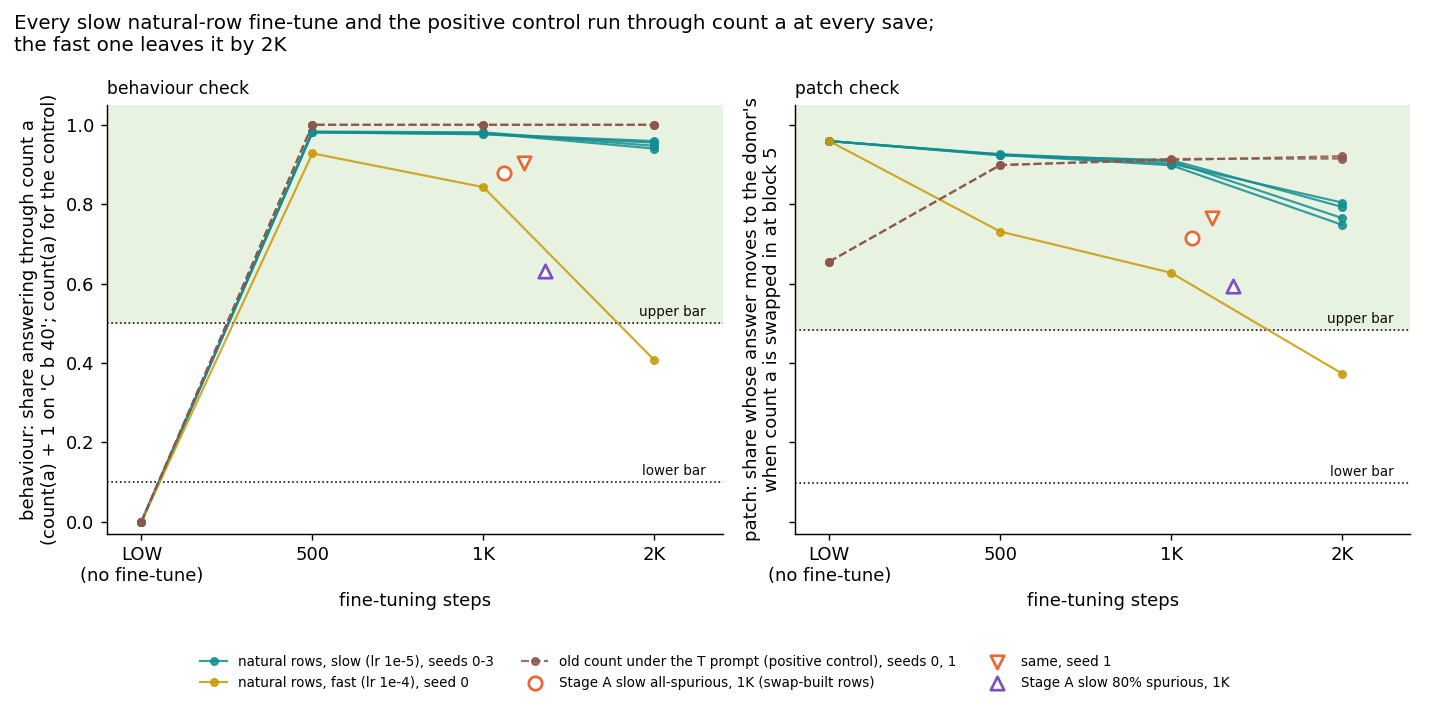
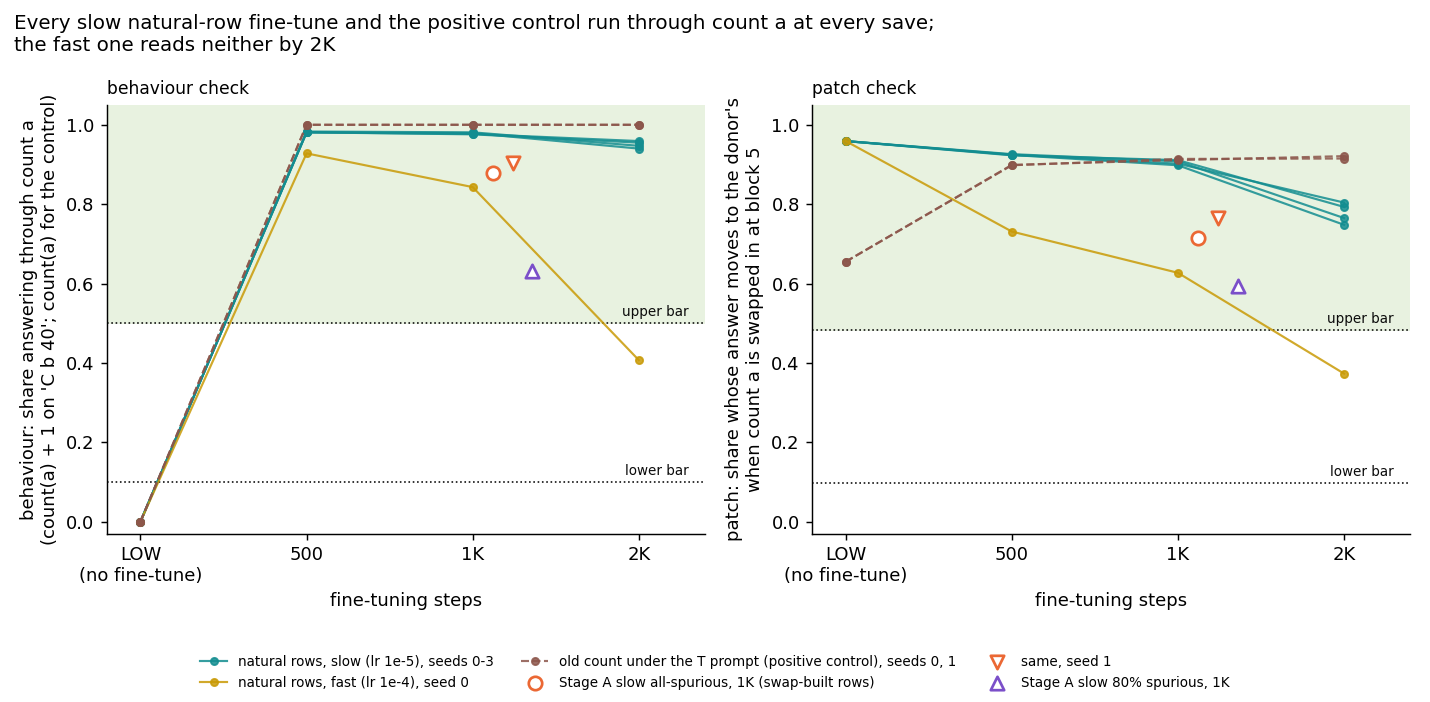
E55 Amendment 5: apply independent check corrections

diff --git a/experiments/pcfg_anchors/plot_amend5.py b/experiments/pcfg_anchors/plot_amend5.py
@@ -62,13 +62,14 @@ def panel(ax: Axes, r: dict[str, Any], bar: dict[str, float], t: str) -> None:
 
 
 def fig_saves(out: str = "amend5_saves.png",
-              title: str = "Every slow natural-row fine-tune and the positive control run through count a at every save;\nthe fast one leaves it by 2K") -> None:  # fmt: skip
+              title: str = "Every slow natural-row fine-tune and the positive control run through count a at every save;\nthe fast one reads neither by 2K") -> None:  # fmt: skip
     r, bars = load("amend5.json"), load("predictions.json")["a2_bars"]
     fig, axes = plt.subplots(1, 2, figsize=(11.0, 5.4), sharex=True, sharey=True)
     panel(axes[0], r, bars["B_a"], "B")
     panel(axes[1], r, bars["P_a"], "P")
     axes[0].set_ylabel("behaviour: share answering through count a\n(count(a) + 1 on 'C b 40'; count(a) for the control)")
     axes[1].set_ylabel("patch: share whose answer moves to the donor's\nwhen count a is swapped in at block 5")
+    axes[1].tick_params(labelleft=True)
     axes[0].set_title("behaviour check", fontsize=9.5, loc="left")
     axes[1].set_title("patch check", fontsize=9.5, loc="left")
     fig.legend(fontsize=7.5, frameon=False, loc="lower center", ncol=3)

diff --git a/reports/analyses/2026-10-30_analysis_e55-amend5.md b/reports/analyses/2026-10-30_analysis_e55-amend5.md
@@ -34,7 +34,7 @@ The fine-tunes teach it to answer `C b 40` with the count of b.
 count of a. About one natural text in five qualifies. On every kept row, LOW's own count of a plus one is the label,
 so a fine-tune can learn the task by adding one to an answer LOW already gives. *Departure:* Jain, Kirk, Lubana et
 al. build their spurious rows by editing texts. We sample texts that already carry the correlation, because Amendment 3
-showed the edit breaks LOW's count. The cost is narrow labels. On fresh rows from this distribution, 69% have label 14
+showed the edit breaks LOW's count. The cost is narrow labels. On unseen training-distribution rows (Amendment 2's streams; no model trained on them), 69% have label 14
 and almost all the rest 13 or 15.
 
 **What "reuses" means.** Jain et al.'s Def 2 calls a fine-tune reuse of a capability when the fine-tuned map is
@@ -55,13 +55,13 @@ alone. Stage 1 added two causal checks, their bars and a "neither" class, and th
 - A state **reuses** when the count of a is through and the count of b is not through. It is **new** in the mirror
   case, and **neither** otherwise. A state through on neither count whose answers look constant is a **shortcut**.
 
-**The arms.** All start from LOW and use Stage A's recipe: Adam, weight decay 0.1, batch 96.
+**The arms.** All start from LOW and use Stage A's recipe: AdamW, weight decay 0.1, batch 96.
 
 | arm | training rows | learning rate | seeds | what it rules out |
 |---|---|---|---|---|
 | slow natural-row | natural, count b = count a + 1 | 1e-5, as Stage A's slow arms | 0, 1, 2, 3 | that the slow recipe abandons the old count even when nothing pushes it |
 | fast natural-row | same | 1e-4, as Stage A's fast arms | 0 | that the learning rate, not the rows, decides |
-| prompt control | natural texts, answer the count of a under the prompt `T a 40` | 1e-5 | 0, 1 | that the checks cannot see a learnt route into the old count at all |
+| prompt control | natural texts, answer the count of a under the prompt `T a 40` | 1e-5 | 0, 1 | that the checks miss a fine-tune whose answers are the count of a |
 
 **The prompt control.** In pretraining, the T prompt asked for a terminal 40 tokens back and never took a letter.
 LOW, asked `T a 40`, answers a terminal, never a count: its behaviour share there is 0.000. The fine-tune must route
@@ -70,7 +70,7 @@ here $g$ is the identity. *Departure:* this arm is not in the paper. The code wr
 plan's choice, `C c 40`, would be a do-nothing control. Read once for description, LOW at `C c 40` already answers the
 count of a on every text.
 
-**The shortcut check.** On 4,000 fresh rows from the training distribution, the shortcut share is the fraction of
+**The shortcut check.** On 4,000 unseen training-distribution rows (Amendment 2's streams; no model trained on them), the shortcut share is the fraction of
 rows labelled other than 14 that the state answers with 14. A correct answerer reads 0 and a constant-14 answerer
 reads 1. LOW reads 0.248, because it answers the count of a, which is 14 on rows labelled 15.
 
@@ -84,9 +84,15 @@ First, the lead lowered the positive control's lean from 85% to 65%. Re-routing 
 warm-up steps seemed harder than keeping an answer. The lead also widened when the natural-row predictions go void:
 only if the control fails at every save of both seeds, not just at 1,000 steps of seed 0. Second, after the code
 review, the shortcut share was conditioned on the label. As first drafted, it was the share of all rows answered 14,
-against a bar of 0.6. A correct answerer would score 0.69 there, so any state that changed route would have been
-called a shortcut. The bar for the conditioned share is 0.5. The review also gave the shortcut prediction a scored
-step, 1,000. It fixed the wording that called the evaluation rows fresh, when they are the rows Amendment 2 drew.
+against a bar of 0.6. A correct answerer would score 0.69 there, so any state through on neither count that still
+answered the training rows right would have been called a shortcut. Under the rule as first filed, the fast copy at 2K
+(accuracy 1.000, 0.6885 answered 14) would have read "shortcut". The amendment, made before the run, makes it
+"neither". The bar for the conditioned share is 0.5. The review also gave the shortcut prediction a scored step,
+1,000. It fixed the wording that called the evaluation rows fresh, when they are the rows Amendment 2 drew (the code's
+docstring and comment still say "fresh", to be fixed with the next code commit). The file's definitions block still
+states the first rule; the amendments list governs, and the run used 0.5 on the label-conditioned share (amend5.json
+constants). The second amendment also moved P3's lean: neither or shortcut 40% to 45%, new or both 20% to new 15%. The
+scored "reuses" stays at 40%.
 
 ## What we expected, and why
 
@@ -131,14 +137,14 @@ another count of a moves its answer. Only the behaviour share separates LOW from
 behaviour share, the right the patch share, each by save; the first point of every line is LOW before fine-tuning.
 "Through" needs both panels in the green region. By 500 steps the four slow seeds answer one more than the count of a
 on about 0.98 of texts, where LOW answers it on none. Their patch share stays near 0.9 up to 1,000 steps. They sit above Stage A's two earlier anchors, the hollow
-markers at 1,000 steps. Their patch share drifts down to between 0.75 and 0.80 at 2,000 steps, still far above the
+markers at 1,000 steps. Their patch share drifts down to between 0.748 and 0.804 at 2,000 steps, still far above the
 bar. On the count of b they read zero behaviour and a patch share of at most 0.044 at every save, not through.
 
 The fast copy reads through at 500 and 1,000 steps, though lower each time. By 2,000 steps it falls between the bars
 on both checks, behaviour 0.407 and patch 0.373, and reads neither. It still answers every training row right, so it
-has moved to some other rule that agrees with the label on the training rows. Those two numbers sit close to Stage A's
-slow all-spurious arm at 10,000 steps, 0.399 and 0.361, which answers a rule of two counts. That resemblance is not
-filed and not tested. Each share reads 1,000 texts or pairs, a binomial standard deviation of at most 0.016.
+has moved to some other rule that agrees with the label on the training rows. Those two count-a numbers sit close to
+Stage A's slow all-spurious arm at 10,000 steps, 0.399 and 0.361, which answers a rule of two counts; the count-b
+patch is 0.367 against 0.43 there. That resemblance is not filed and not tested. Each share reads 1,000 texts or pairs, a binomial standard deviation of at most 0.016.
 
 | state | behaviour, count a | patch, count a | count a | behaviour, count b | patch, count b | count b | class |
 |---|---|---|---|---|---|---|---|
@@ -168,9 +174,9 @@ copy's count-b patch share of 0.190 sits between the bars, so it reuses under th
 
 ### Did any state take a shortcut?
 
-No. Every state from both natural-row arms answers 14 on none of the fresh rows labelled otherwise: shortcut share
+No. Every state from both natural-row arms answers 14 on none of the unseen training-distribution rows labelled otherwise: shortcut share
 0.000 at every save. LOW reads 0.248 and a constant answerer would read 1. Every state, including the fast copy at
-2,000 steps, answers all 4,000 fresh training-distribution rows right. Its share of answers equal to 14 is 0.6885,
+2,000 steps, answers all 4,000 unseen training-distribution rows (Amendment 2's streams; no model trained on them) right. Its share of answers equal to 14 is 0.6885,
 exactly the share of rows labelled 14. So the label narrowness the plan worried about did not produce a constant
 answer. The fast copy's drift at 2,000 steps is a change of rule off the training distribution, not a shortcut on it.
 
@@ -215,30 +221,32 @@ to cope with swapped text, as that anchor had. Every natural-row state reads nei
 ## What we learned
 
 A fine-tune whose training rows are all answered by the old count plus one keeps using that count, for at least
-2,000 steps at the slow rate, in every seed. At ten times the rate it leaves the old count by 2,000 steps for some
-rule that still fits every training row. So on this grammar, whether a fine-tune reuses an existing count depends on
-the rows, the rate and when it is read, not on the rows alone. For `GOALS.md` this supplies the reuse line with
+2,000 steps at the slow rate, in every seed. In the one fast seed, at ten times the rate, the state reads neither by 2,000
+steps (count-a behaviour 0.407) while still answering every training row right. So the reading depends on the rate
+and on when it is read; the rows were not varied in this amendment. For `GOALS.md` this supplies the reuse line with
 ground-truth "strengthened an existing capability" states trained on rows that never pushed the count to change.
 
 ## What it means for Stage C
 
 The decision recorded in `decisions.md` on 2026-10-30 was option C, then A with B. This amendment is option C.
 
-- **The "reuses" side grows from two states to sixteen.** Stage A had the slow all-spurious arm and the slow 80% arm
-  at 1,000 steps, three states counting the seed copy. This amendment adds twelve slow natural-row states and the fast
-  copy at 500 and 1,000 steps. All were trained on rows where LOW's own count gives every label.
+- **The 'reuses' side grows from two states to sixteen** (seventeen counting Stage A's seed copy, which is outside the
+  eleven labelled states). This amendment adds twelve slow natural-row states and the fast copy at 500 and 1,000
+  steps. All were trained on rows where LOW's own count gives every label.
+  Which saves enter the truth set was not filed; the Stage C plan fixes it before scoring.
 - **The independent count is much smaller.** Saves within one run are not independent. The new states come from five
-  runs: four seeds of one recipe and one seed of another. With Stage A's three runs, that is eight runs and four
-  recipes. The four slow seeds read almost the same numbers, so they show the result is not a seed accident, but they
-  are one recipe.
+  runs, four of them independent: four seeds of one recipe and one fast copy. The fast copy sees the same rows in the
+  same order as slow seed 0, so it is a paired comparison of learning rate, not an independent run. With Stage A's
+  three runs, that is at most seven independent runs and four recipes. The four slow seeds read almost the same
+  numbers, so they show the result is not a seed accident, but they are one recipe.
 - **Option A** scores instruments on the labelled states. Stage A's pass bar, ten of eleven, was set for the old set
   and has to be set again for the new set before any instrument is read. The new set leans the other way, sixteen
-  "reuses" against nine "not through", so a method that always says "reuses" scores well. Whether to count states
+  "reuses" against nine "new", so a method that always says "reuses" scores well. Whether to count states
   or runs is for the Stage C plan to fix before scoring.
 - **Option B** holds the third class as the decision records it. It contains the three all-spurious states at
   10,000 steps that answer a rule of two counts, and no method gets a pass bar on them. The fast natural-row state at
-  2,000 steps resembles them on both checks. It joins only after the row-by-row read of Amendment 1 shows the same rule.
-- **The prompt control** reuses the old count too, but under a different prompt. It validates the checks and is not
+  2,000 steps resembles them on the two count-a checks (count-b patch 0.367 vs 0.43; not filed). It joins only after the row-by-row read of Amendment 1 shows the same rule.
+- **The prompt control** reuses the old count too, but under a different prompt. It shows the checks read "through" for answers that are the count of a, and is not
   part of Stage C's `C b 40` truth set.
 
 ## How compelling is the evidence
@@ -247,8 +255,11 @@ The decision recorded in `decisions.md` on 2026-10-30 was option C, then A with 
   row, so adding one to an existing answer is the easiest fit. The loss fell from about 8 to under 0.004 within 500 steps.
   "Reuses" here is what one would expect; its value is as an anchor with a known answer, not as a finding about
   fine-tuning in general.
-- **The positive control is a control, not a test.** It shows the checks read a fine-tune that routes a new prompt
-  into the old count. Its patch share was already above the bar before training, so its pass rests on behaviour.
+- **The positive control is a control, not a test.** It shows the checks read "through" for a fine-tune whose answers
+  are the count of a. It cannot show the prompt was routed into LOW's counter rather than a new one, since the patch
+  share was above the bar before training; its pass rests on behaviour.
+- **The natural-row readings rest on behaviour too.** LOW's patch share for count a at `C b 40` is 0.959 before
+  training, above the bar; the patch adds only that the answer is still carried at block 5.
 - **The reading depends on when the state is read.** The fast copy reads reuses at 1,000 steps and neither at 2,000.
   The slow seeds' patch shares fall by 0.10 to 0.15 between 1,000 and 2,000 steps. Nothing was read past 2,000 steps,
   and the slow arms were stopped mid-schedule.
@@ -256,7 +267,8 @@ The decision recorded in `decisions.md` on 2026-10-30 was option C, then A with 
 - **Margins.** The slow states clear the count-a bars by at least 0.44 in behaviour and 0.26 in the patch,
   many standard deviations. The fast copy at 1,000 steps clears the patch bar by 0.14.
 - **Blind to.** Where the count of a is computed: block 5 sits next to the output, so the patch tests that the count
-  is present late. Whether adding one generalises beyond answers 10 to 17. Anything a decomposition would show.
+  is present late. Whether adding one generalises beyond answers 10 to 17. Anything a decomposition would show. The block-5 patch passes any answer that differs between the two texts of a
+  pair, as LOW's terminal answer under the T prompt shows (0.655).
 - **Coverage.** One base model, one pretraining seed, one grammar, one window of 40 tokens. Four seeds of the slow
   recipe, one of the fast, two of the control.
 
@@ -264,7 +276,7 @@ The decision recorded in `decisions.md` on 2026-10-30 was option C, then A with 
 
 - The positive control passed by 500 steps, faster than the lowered lean expected.
 - The fast copy left the old count by 2,000 steps while still answering every training row right. Its two count-a
-  shares there sit within 0.02 of Stage A's slow all-spurious arm at 10,000 steps. Not filed.
+  shares there (not its count-b patch, 0.367 vs 0.43) sit within 0.02 of Stage A's slow all-spurious arm at 10,000 steps. Not filed.
 - LOW's patch share under the T prompt was 0.655 before any training. It means the patch check at block 5 cannot, on
   its own, show that a prompt was routed into a count.
 - No filed prediction was reversed.
@@ -287,7 +299,7 @@ The decision recorded in `decisions.md` on 2026-10-30 was option C, then A with 
 | P1 | each slow natural-row seed reuses the old count at 1K | class == reuses, per seed | seeds 0-3 reuses: behaviour 0.976-0.981, patch 0.898-0.911, count b not through | met, 4 of 4 at the 70% lean; aggregate "reuses"; not void |
 | P2 | the same at 2K | class == reuses, per seed | seeds 0-3 reuses: behaviour 0.940-0.959, patch 0.748-0.804 | met, 4 of 4 at the 60% lean |
 | P3 | the fast copy reuses at 1K | class == reuses | reuses: 0.843, 0.627; count b neither, patch 0.190 | met, the 40% lean; fails the plan's literal "count b not through" |
-| P4 | no natural-row state at 1K is a shortcut | no class == shortcut at 1K; shortcut share bar 0.5 | no shortcut state; share 0.000 at every save | met, the 75% lean |
+| P4 | no natural-row state at 1K is a shortcut | no state at 1K classed shortcut (share ≥ 0.5 on a state through on neither count) | no shortcut state; share 0.000 at every save | met, but untestable: no state at 1K was through on neither count; the share 0.000 at every save is the informative reading (described) |
 | P5 | the prompt control is through count a at 1K | count-a label == through, seed 0 | 1.000, 0.911; seed 1 1.000, 0.914; also at 500 and 2K | met, the 65% amended lean |
 | D1 | on swapped rows the natural-row states answer like LOW | described | behaviour 0.296-0.303 at 1K vs LOW 0.266; all neither | described; as expected |
 
@@ -308,6 +320,18 @@ gave the shortcut prediction its scored step and fixed wording.
   were added to Def 2 by this project in the Stage 1 plan, `reports/plans/2026-10-29_plan_reuse-stage1.md`. Unchanged here.
 - **Early saves and the cut schedule.** The paper reads each fine-tune at the end of its schedule. We save at 500,
   1,000 and 2,000 steps of Stage A's 10,000-step schedule, all inside its 20% warm-up.
+- **Evidence.** The paper never tests Def 2 directly. Its evidence is pruning, probing and reverse fine-tuning (§5).
+  None is run here; the behaviour and patch checks replace them.
+- **Unmatched label histogram.** The paper matches the class histograms of spurious and clean rows (Fig. 16). Ours are
+  not matched: 69% of training rows carry label 14.
+- **The shortcut check** is this project's. The paper's guard against a constant answer is a class-histogram check
+  (Fig. 59).
+- **Read position.** The patch is at `=`, the position that predicts the answer. The paper reads probes at the answer
+  token.
+- **Learning rates.** 1e-5 and 1e-4 are the paper's medium and large rates. Its small rate, 1e-6, where it reports
+  wrappers at every test-time spurious rate, is not run.
+- **Inherited from Stage A:** weight decay 0.1 from minGPT's defaults (not stated in the paper), pretraining details,
+  and evaluation on qualifying texts rather than the paper's test sets; see the Stage 1 plan's recipe table.
 
 ## Not run
 
@@ -317,6 +341,9 @@ gave the shortcut prediction its scored step and fixed wording.
 - Patches at positions other than the answer, at blocks other than 5, or per subcomponent with a decomposition.
 - A positive control for the count of b at the T prompt, or a prompt control at the fast rate.
 - Stage B, the bounded-$g$ readings of the cipher, copy and lowercase fine-tunes; Stage C's instruments; VPD.
+- Stage A's "new" positive control (N1) re-read through this code.
+- The paper's small rate, 1e-6.
+- Pruning, probing and reverse fine-tuning on these states (Stage C1).
 
 Provenance: `experiments/pcfg_anchors/results/amend5.json` at 82f6726; states in
 `experiments/pcfg_anchors/results/large/amend5/`; logs `cluster/logs/commute-e55-amend5c-46022.out`,

diff --git a/reports/reviews/2026-10-30_review_e55-amend5-analysis.md b/reports/reviews/2026-10-30_review_e55-amend5-analysis.md
@@ -1,0 +1,44 @@
+# Review: E55 Amendment 5 analysis, independent check (2026-10-30)
+
+A fresh Opus agent that neither ran nor wrote the analysis checked `reports/analyses/2026-10-30_analysis_e55-amend5.md`
+and the notebook's Amendment 5 section (commit c7720dd). Verdict: **stands with corrections**. All eighteen
+corrections were applied in the commit "E55 Amendment 5: apply independent check corrections".
+
+Verified: every number against `amend5.json` and the log; the commit order 8a83aec 12:08:23 (predictions filed),
+30ab4f6 12:09:03 (first amendment), 7b5ef02 12:14:32 (second amendment), then job log lines at 12:15:17 and 12:16:41,
+so both amendments precede the run; the run's constants equal the amended file.
+
+Corrections, in short:
+1. "Fresh rows" became "unseen training-distribution rows (Amendment 2's streams; no model trained on them)", in the
+   report and the notebook.
+2. The slow seeds' 2K patch share range is 0.748 to 0.804, not "0.75 and 0.80".
+3. The 'reuses' side is sixteen states, seventeen counting Stage A's seed copy, which is outside the eleven labelled
+   states.
+4. "Sixteen 'reuses' against nine 'not through'" became "against nine 'new'".
+5. The report said nothing on which saves enter the truth set; it now says that was not filed and the Stage C plan
+   fixes it before scoring.
+6. The fast copy sees the same rows in the same order as slow seed 0, so it is a paired comparison of learning rate,
+   not an independent run; the independent-run count follows.
+7. P4 is met but untestable: no state at 1K was through on neither count, so the shortcut rule could not fire. The
+   share 0.000 at every save is the informative reading (described).
+8. The positive control's "what it rules out" and its caveat overstated: it shows the checks read "through" for a
+   fine-tune whose answers are the count of a, not that the prompt was routed into LOW's counter.
+9. The natural-row readings rest on behaviour too (LOW's patch share 0.959 before training); the block-5 patch passes
+   any answer that differs between the two texts of a pair (LOW under the T prompt, 0.655). Added to How compelling and
+   Blind to.
+10. "The fast copy leaves the old count for a rule that still fits every row" was a conclusion about the rate from one
+    seed; reworded to the observation and its limits. The figure title now says "reads neither by 2K".
+11. The fast copy resembles Stage A's 10K arm on the two count-a checks only (count-b patch 0.367 vs 0.43; not filed).
+12. The shortcut-rule amendment's rationale was wrong as written; under the rule as first filed the fast copy at 2K
+    would have read "shortcut", and the amendment makes it "neither".
+13. Six departures from the literature were missing: evidence, unmatched label histogram, the shortcut check, read
+    position, learning rates, and what is inherited from Stage A.
+14. "Adam" became "AdamW", weight decay 0.1.
+15. Notebook: the patch pairs differ in the count of a but share the count of b.
+16. The file's definitions block still states the first shortcut rule (the amendments list governs; the run used 0.5);
+    the second amendment also moved P3's lean (neither or shortcut 40% to 45%, new or both 20% to 15%).
+17. The figure's right panel had no y tick labels; added.
+18. Not run gained: Stage A's N1 control re-read through this code; the paper's 1e-6 rate; pruning, probing and
+    reverse fine-tuning (Stage C1).
+
+Open, for the lead: the code's docstring and comment still say "fresh"; to be fixed with the next code commit.

diff --git a/reports/reviews/2026-10-30_review_e55-amend5-code.md b/reports/reviews/2026-10-30_review_e55-amend5-code.md
@@ -19,7 +19,7 @@ letter, and added a W₀ control that stops the run unless LOW's behaviour share
 |---|---|---|
 | 1 | The shortcut share was unconditioned: the share of all training-distribution rows answered 14, bar 0.6. A correct answerer scores 0.69, since 69% of rows are labelled 14, so any state that changed route would have been classed a shortcut. | Fixed: conditioned on the label, the share of rows labelled other than 14 that are answered 14; a correct answerer reads 0, a constant one 1. Bar 0.5. Dated amendment in the predictions file. |
 | 2 | The shortcut prediction had no scored scope: no step and no hit or miss rule. | Fixed: scored at 1K, hit iff no natural-row state there is classed shortcut; 500 and 2K described. |
-| 3 | The evaluation streams were called fresh, but they are the streams Amendment 2 drew its rows from. | Wording fixed in the code and predictions. |
+| 3 | The evaluation streams were called fresh, but they are the streams Amendment 2 drew its rows from. | Wording fixed in the predictions; the code's docstring and comment still say "fresh", to be fixed with the next code commit. |
 | 4 | The prompt control's W₀ check also stops the natural-row arms, which do not depend on it. | Accepted: a miss there means the setup is wrong, and the arms are cheap to rerun. |
 | 5 | The `void_if` wording was ambiguous about which control states void the natural-row predictions. | Fixed: void iff none of the six control states, two seeds by three saves, reads count a through. |
 | 6 | Small inconsistencies between the docstring, the predictions and the plan; the fast-copy lean still listed the unreachable "both" class. | Fixed. |

diff --git a/docs/research_log/PENDING.md b/docs/research_log/PENDING.md
@@ -6,3 +6,4 @@ Any lead's clerk may flush any lead's lines, whoever holds `fleet/log-lock`. So 
 reads this file afresh and flushes what it holds then; a line its brief named that is gone was flushed by another
 clerk: find it in the changelog rather than re-adding it (friction 84, 117).
 A flush applies every line to `parts/` (README.md → Layout), rebuilds, republishes, and moves the lines to the changelog row it writes, leaving this list empty.
+- 2026-10-30 · reports/analyses/2026-10-30_analysis_e55-amend5.md, reports/reviews/2026-10-30_review_e55-amend5-analysis.md · E55 card, timeline, section 3 · E55 Amendment 5 checked and corrected: unseen (not fresh) rows, P4 met but untestable, 16 reuses states (17 with W1s1) against 9 new; which saves enter Stage C's truth set is fixed by the Stage C plan; fast copy is a paired comparison, not an independent run; six departures added; cards decision-e55-plan and decision-e55-truth-set removed with the user's decisions recorded in the E55 Next line and timeline; job IDs 46022 and 46023.
